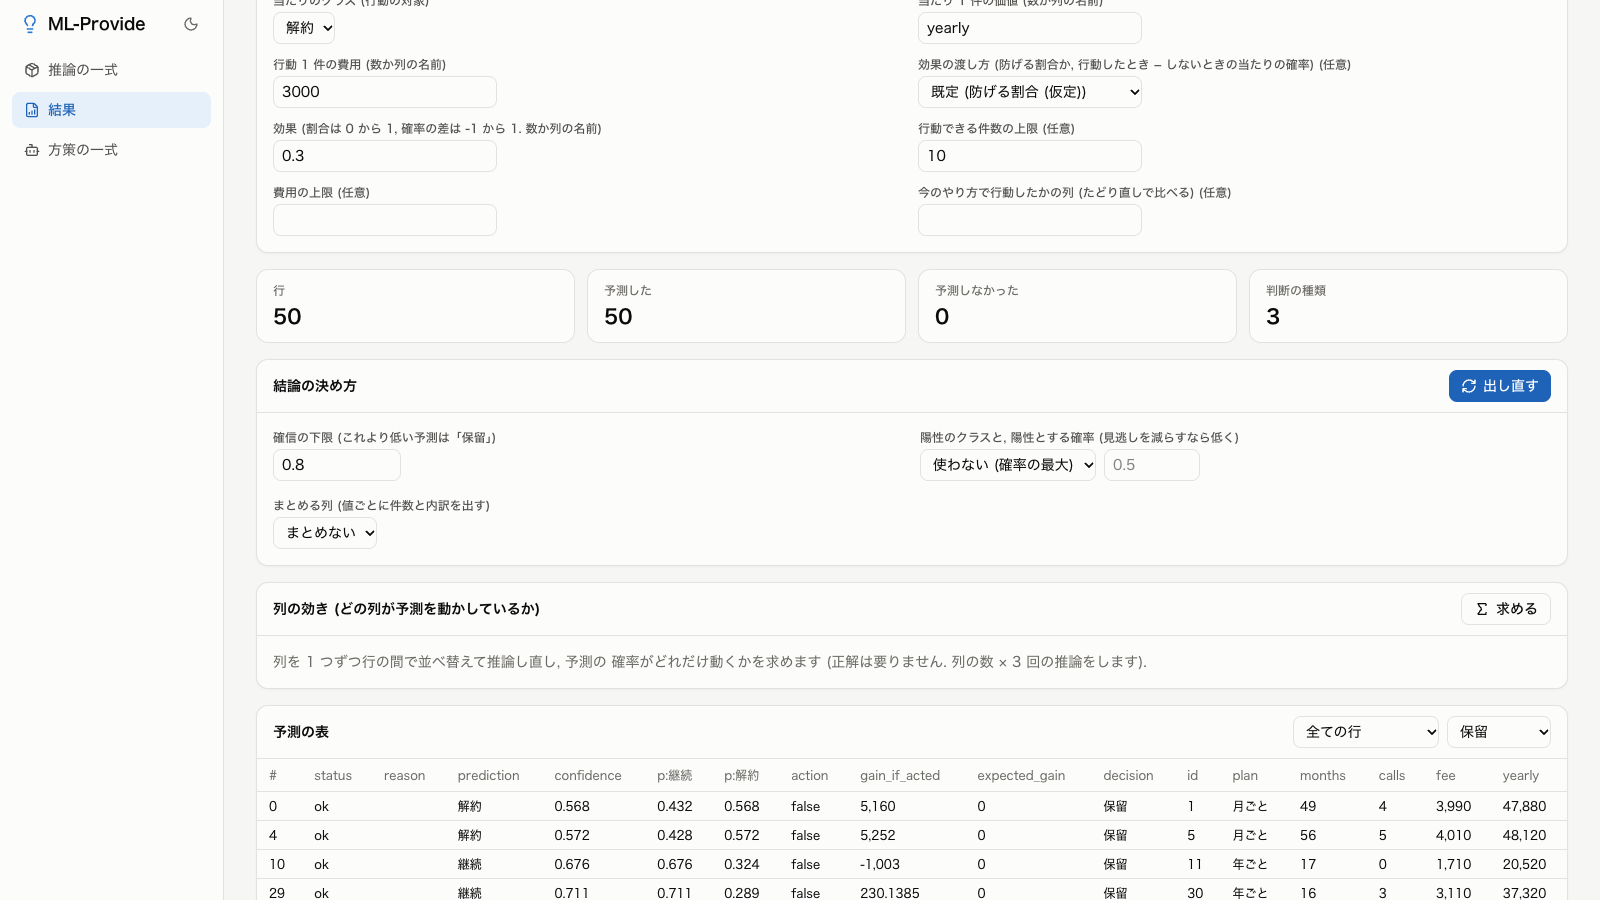
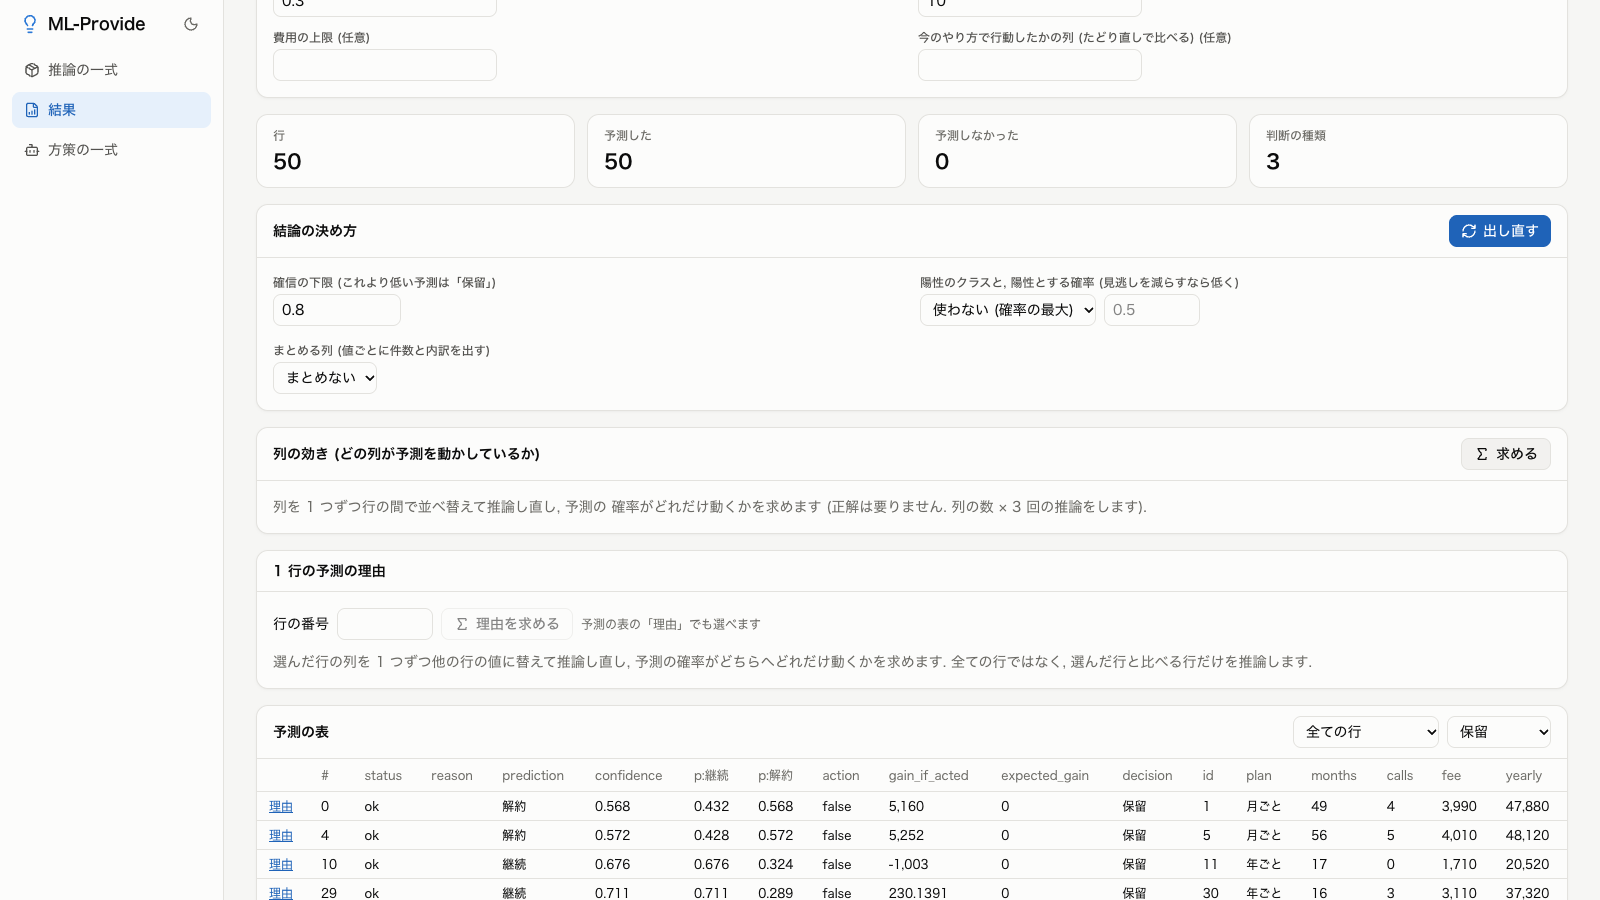
README と操作ガイドの画面の例を今の画面で撮り直す (#154)
* README と操作ガイドの画面の例を今の画面で撮り直す

* 操作ガイドと README の一式の画面と回帰の結果の説明を写っているものに合わせる

---------

diff --git a/frontend/e2e/screens.ts b/frontend/e2e/screens.ts
@@ -154,7 +154,7 @@ await page
   .getByRole('button', { name: /cartpole.* を登録/ })
   .click()
 await page
-  .getByLabel(/^観測/)
+  .getByLabel(/^観測 \(/)
   .fill('0.5478467492858172, -0.9208531449445188, -0.18361059042552214, -1.9338894578858836')
 await page.getByRole('button', { name: '行動を決める' }).click()
 await expect(page.getByRole('status').filter({ hasText: '行動' })).toContainText('そのまま')

diff --git a/TODO.md b/TODO.md
@@ -5,11 +5,7 @@
 
 ## 優先度 高
 
-### 画面の例の画像を撮り直す
-- 何を: 今の画面で, README と docs/GUIDE.md の画像 (`docs/images/`) を `e2e/screens.ts` で撮り直す. 一式の一覧の見出しが「推論」になり, 一式の画面 (`bundle.png`) の見出しが「問題」とパンくずの「推論」になったなど, 文の変わった画像がある
-- なぜ: 画像の文と今の画面の文を合わせるため
-- 終わりの条件: `docs/images/` の画像の文が今の画面と同じになる
-- つながり: ML-Studio の TODO.md の「画面の例の画像を撮り直す」
+無し
 
 ## 優先度 中
 

diff --git a/README.md b/README.md
@@ -8,7 +8,7 @@
 
 <table>
   <tr>
-    <td><img src="docs/images/bundle.png" alt="一式の画面: 問題, 推論するデータ, 意思決定と結論の決め方の欄, この一式の過去の結果"></td>
+    <td><img src="docs/images/bundle.png" alt="一式の画面: 問題, 推論するデータ, 意思決定と結論の決め方の欄. 右はこの一式の結果の欄 (まだ結果が無い)"></td>
     <td><img src="docs/images/predictions.png" alt="予測の表: 予測, 確信, クラスごとの確率, 行ごとの行動と判断を元の列に足した表"></td>
   </tr>
   <tr>
